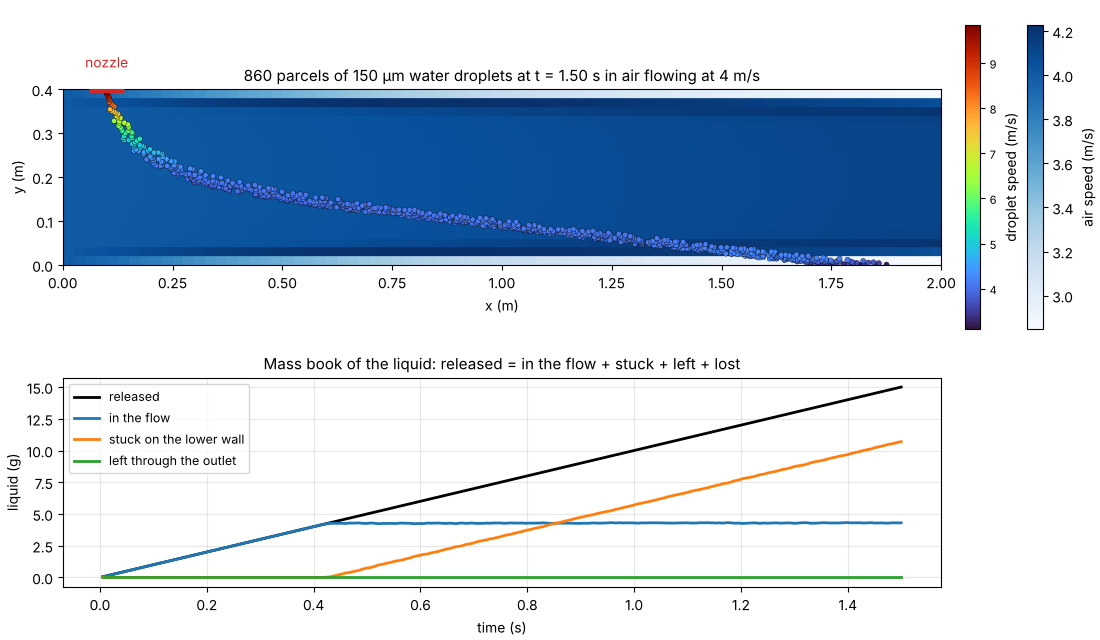
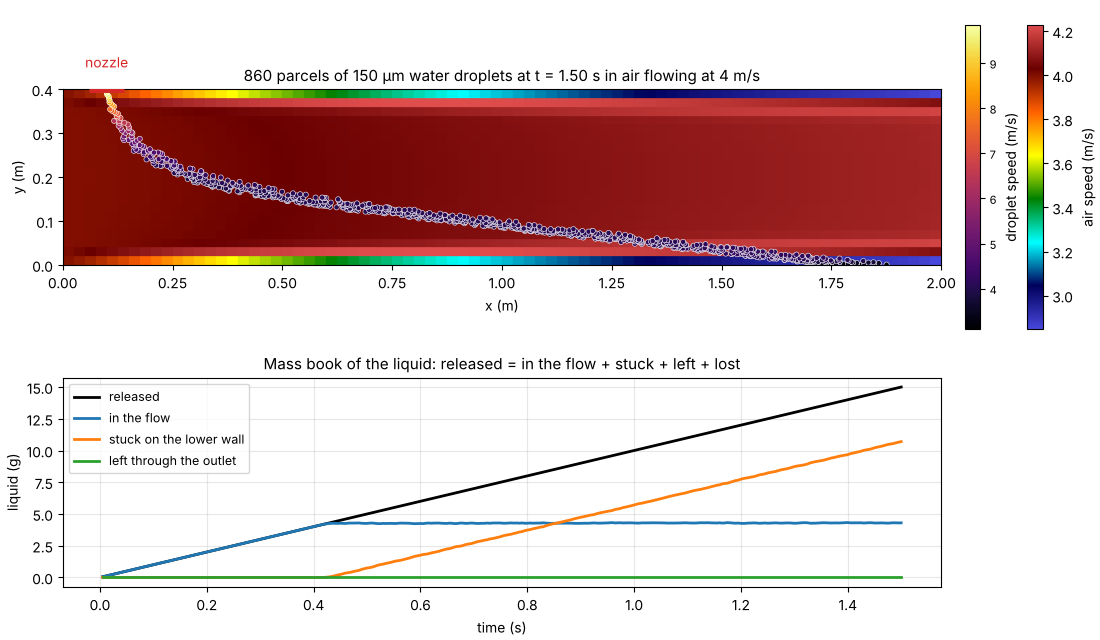
SP1: shared colour maps, by-number tables left to CI, Implemented note in the requirements
Claude-Session: https://claude.ai/code/session_012imjwnsbYDXwezGh965fJC

Changed region(s): [[0.0309, 0.0312, 0.8964, 0.5312], [0.9273, 0.0312, 0.9582, 0.5312]]

diff --git a/tools/plot/spray_fields.py b/tools/plot/spray_fields.py
@@ -20,6 +20,7 @@ import matplotlib.pyplot as plt
 import numpy as np
 from matplotlib.collections import PolyCollection
 
+from tools.plot.colormaps import RAINBOW
 from tools.plot.turbulence_fields import read
 
 
@@ -41,11 +42,11 @@ def duct(out, run):
         2, 1, figsize=(11.0, 6.4), constrained_layout=True, gridspec_kw={"height_ratios": [1.0, 0.62]}
     )
     ax = axs[0]
-    pc = PolyCollection(quads, array=d["speed"], cmap="Blues", edgecolors="face", linewidths=0.2)
+    pc = PolyCollection(quads, array=d["speed"], cmap=RAINBOW, edgecolors="face", linewidths=0.2)
     ax.add_collection(pc)
     fig.colorbar(pc, ax=ax, label="air speed (m/s)", shrink=0.9, pad=0.01)
     sc = ax.scatter(
-        x[:, 0], x[:, 1], c=speed, s=14, cmap="turbo", edgecolors="k", linewidths=0.25, zorder=3
+        x[:, 0], x[:, 1], c=speed, s=14, cmap="inferno", edgecolors="white", linewidths=0.4, zorder=3
     )
     cb = fig.colorbar(sc, ax=ax, label="droplet speed (m/s)", shrink=0.9, pad=0.01)
     cb.ax.tick_params(labelsize=8)

diff --git a/docs/requirements.md b/docs/requirements.md
@@ -366,7 +366,7 @@ Multi-physics topics (maintainer's order of 2026-11-16, `multiphysics-architectu
 | L20 | Compare runs | `foehn compare` of two runs, or of a run against reference data: monitors, integrals and fields with tolerances, bitwise flag in the reproducible mode of D31, verdict as JSON (D80). Reuses the pass bands of the verification cases (D68). The "check and refine" step of the Crafting Apps for a CFD result. 2026-11-15 (B3) |
 | L21 | Headless previews | PNG images of a slice, a boundary boundary or a residual plot, made without ParaView, so that a person or an agent can look at a result from a script. `tools/mesh/render_mesh.py` is a start. 2026-11-15 (B4) |
 | L22 | Deforming meshes and closed-volume compression (piston) | Requested by the maintainer (2026-11-15): compress a closed volume with a moving mesh, for example a piston compressing the air in a cylinder, with the right boundary conditions and exact mass and energy conservation (D88, D89). Needs the energy equation (L1) and a density that follows the pressure: the low-Mach variable-density form of D17 with a uniform thermodynamic pressure p₀(t) from the global mass and energy balance, which the maintainer judged sufficient for a closed volume. First case: a plain cylinder whose cell layers are all compressed evenly by the piston (every point moves axially in proportion to its distance from the head), with prescribed piston motion (table, expression D53, or crank–slider law), a moving wall with normal motion that books its work p dV, adiabatic or isothermal walls, and the geometry and swept volumes of D91. The boundary-condition check (D30) refuses a closed domain with a moving boundary in an incompressible run and explains why. General mesh motion and topology changes are decided in a dedicated discussion (O16). Valve opening in an engine gives local high-Mach flow for a short time: there the pressure correction takes the compressibility of the density (pressure-based all-speed form, Karki & Patankar 1989; Demirdžić, Lilek & Perić 1993) with a second density update per corrector and a bounded density interpolation, switched on by a local Mach-number criterion; valves and ports need sliding interfaces (L4, D58) | Verification: free-stream preservation on the moving mesh (D91); adiabatic slow compression against the isentropic result (p V^γ and T V^(γ−1) constant, the entropy rise is the numerical entropy production and goes to 0 with mesh and time step, ΔU = −∫p dV); isothermal walls (ΔU = Q_wall − W_piston, Clausius inequality ΔS ≥ ∫Q_wall/T_wall dt). Placed when L1 and the low-Mach form exist |
-| L12 | Discrete droplet sprays (Lagrangian) | Droplets are tracked as parcels, each standing for many identical droplets (tracking every droplet is impossible at 100+ million cells). Models in this order of priority: breakup (for example KH-RT), evaporation and heat transfer (with L1 and L2), wall films and wall interaction (an Eulerian thin film on the wall faces with parcels for everything that leaves the wall, D123, D124), collision; injection models, drag and other forces, turbulent dispersion and one-way and two-way coupling to the gas phase come with the first version. Must be parallel: parcels migrate between ranks, the load is balanced when parcels cluster, kernels run on GPU (D47). Complements the Euler–Euler and VOF multiphase of L3. *2026-11-24:* version 1 is specified in the [step 28 page](requirements/step28-sprays.md) (D240–D246: water-spray cooling first, serial release, GPU kernels from the start; D247–D254: two-way coupling independent of parcel order and thread count, implicit relaxation form with a closing step, passes inside the time step, error checks; D260: steady spray mode as stage SP2s) |
+| L12 | Discrete droplet sprays (Lagrangian) | Droplets are tracked as parcels, each standing for many identical droplets (tracking every droplet is impossible at 100+ million cells). Models in this order of priority: breakup (for example KH-RT), evaporation and heat transfer (with L1 and L2), wall films and wall interaction (an Eulerian thin film on the wall faces with parcels for everything that leaves the wall, D123, D124), collision; injection models, drag and other forces, turbulent dispersion and one-way and two-way coupling to the gas phase come with the first version. Must be parallel: parcels migrate between ranks, the load is balanced when parcels cluster, kernels run on GPU (D47). Complements the Euler–Euler and VOF multiphase of L3. *2026-11-24:* version 1 is specified in the [step 28 page](requirements/step28-sprays.md) (D240–D246: water-spray cooling first, serial release, GPU kernels from the start; D247–D254: two-way coupling independent of parcel order and thread count, implicit relaxation form with a closing step, passes inside the time step, error checks; D260: steady spray mode as stage SP2s). *Implemented 2026-11-24 (PR #242):* SP1, the one-way parcel layer: `[spray]` with an included injector file, exact exponential drag and gravity, tracking on the mesh locator, stick, rebound, escape and mirror boundaries, mass book, parcel output and restart, the parcel kernel as one CPU and GPU source; the gas does not feel the droplets yet (SP2) |
 | L10 | Fully compressible high-Mach flow (transonic, supersonic) | After low-Mach variable density (D17) |
 | L23 | Real gases | Cubic equations of state (Peng–Robinson, Soave–Redlich–Kwong) with departure functions consistent with D92, and real-gas properties from external sources (D103) as pre-generated 2D tables in (p, T) or (p, h) read by the GPU kernel (D96), never as library calls in the kernels. With L10 and high-pressure L2 |
 | L24 | Non-Newtonian fluids | μ(γ̇, T): power law, Carreau–Yasuda, Cross, Herschel–Bulkley (regularised after Papanastasiou). Wanted by the maintainer (2026-11-16), after milestone 1 |

diff --git a/docs/gallery.md b/docs/gallery.md
@@ -132,7 +132,6 @@ The gallery is split by topic; each page has its own table of contents. The numb
 | <a id="multigrid-ranks"></a>231 | [Five ranks, one hierarchy: multigrid on ranks](gallery/meshes.md#multigrid-ranks) | [Meshes](gallery/meshes.md) |
 | <a id="flow-ranks"></a>234 | [Five ranks, one flow: SIMPLEC on ranks](gallery/meshes.md#flow-ranks) | [Meshes](gallery/meshes.md) |
 | <a id="ledger"></a>238 | [The conservation ledger as data: a heated cavity's mass, kinetic and thermal accounts](gallery/energy.md#ledger) | [Energy equation and heat transfer](gallery/energy.md) |
-| <a id="spray-duct"></a>242 | [Water droplets sprayed into an air duct](gallery/sprays.md#spray-duct) | [Lagrangian sprays](gallery/sprays.md) |
 | <a id="flow-models-ranks"></a>244 | [Five ranks, one turbulent heated flow: models on ranks](gallery/meshes.md#flow-models-ranks) | [Meshes](gallery/meshes.md) |
 
 ## Adding a feature

diff --git a/docs/recipes.md b/docs/recipes.md
@@ -145,7 +145,6 @@ The recipes are split by topic; each page has its own table of contents. The num
 | <a id="multigrid-ranks"></a>231 | [Use the multigrid preconditioner on ranks](recipes/meshes.md#multigrid-ranks) | [Meshes](recipes/meshes.md) |
 | <a id="flow-ranks"></a>234 | [Solve a flow on ranks (and check it against one rank)](recipes/meshes.md#flow-ranks) | [Meshes](recipes/meshes.md) |
 | <a id="ledger"></a>238 | [Read the conservation ledger of a run as data, and book a module's rows on it](recipes/energy.md#ledger) | [Energy equation and heat transfer](recipes/energy.md) |
-| <a id="spray-duct"></a>242 | [Spray droplets into a flow](recipes/sprays.md#spray-duct) | [Lagrangian sprays](recipes/sprays.md) |
 | <a id="flow-models-ranks"></a>244 | [Check a turbulent, heated or transient flow on ranks](recipes/meshes.md#flow-models-ranks) | [Meshes](recipes/meshes.md) |
 
 ## Adding a feature
